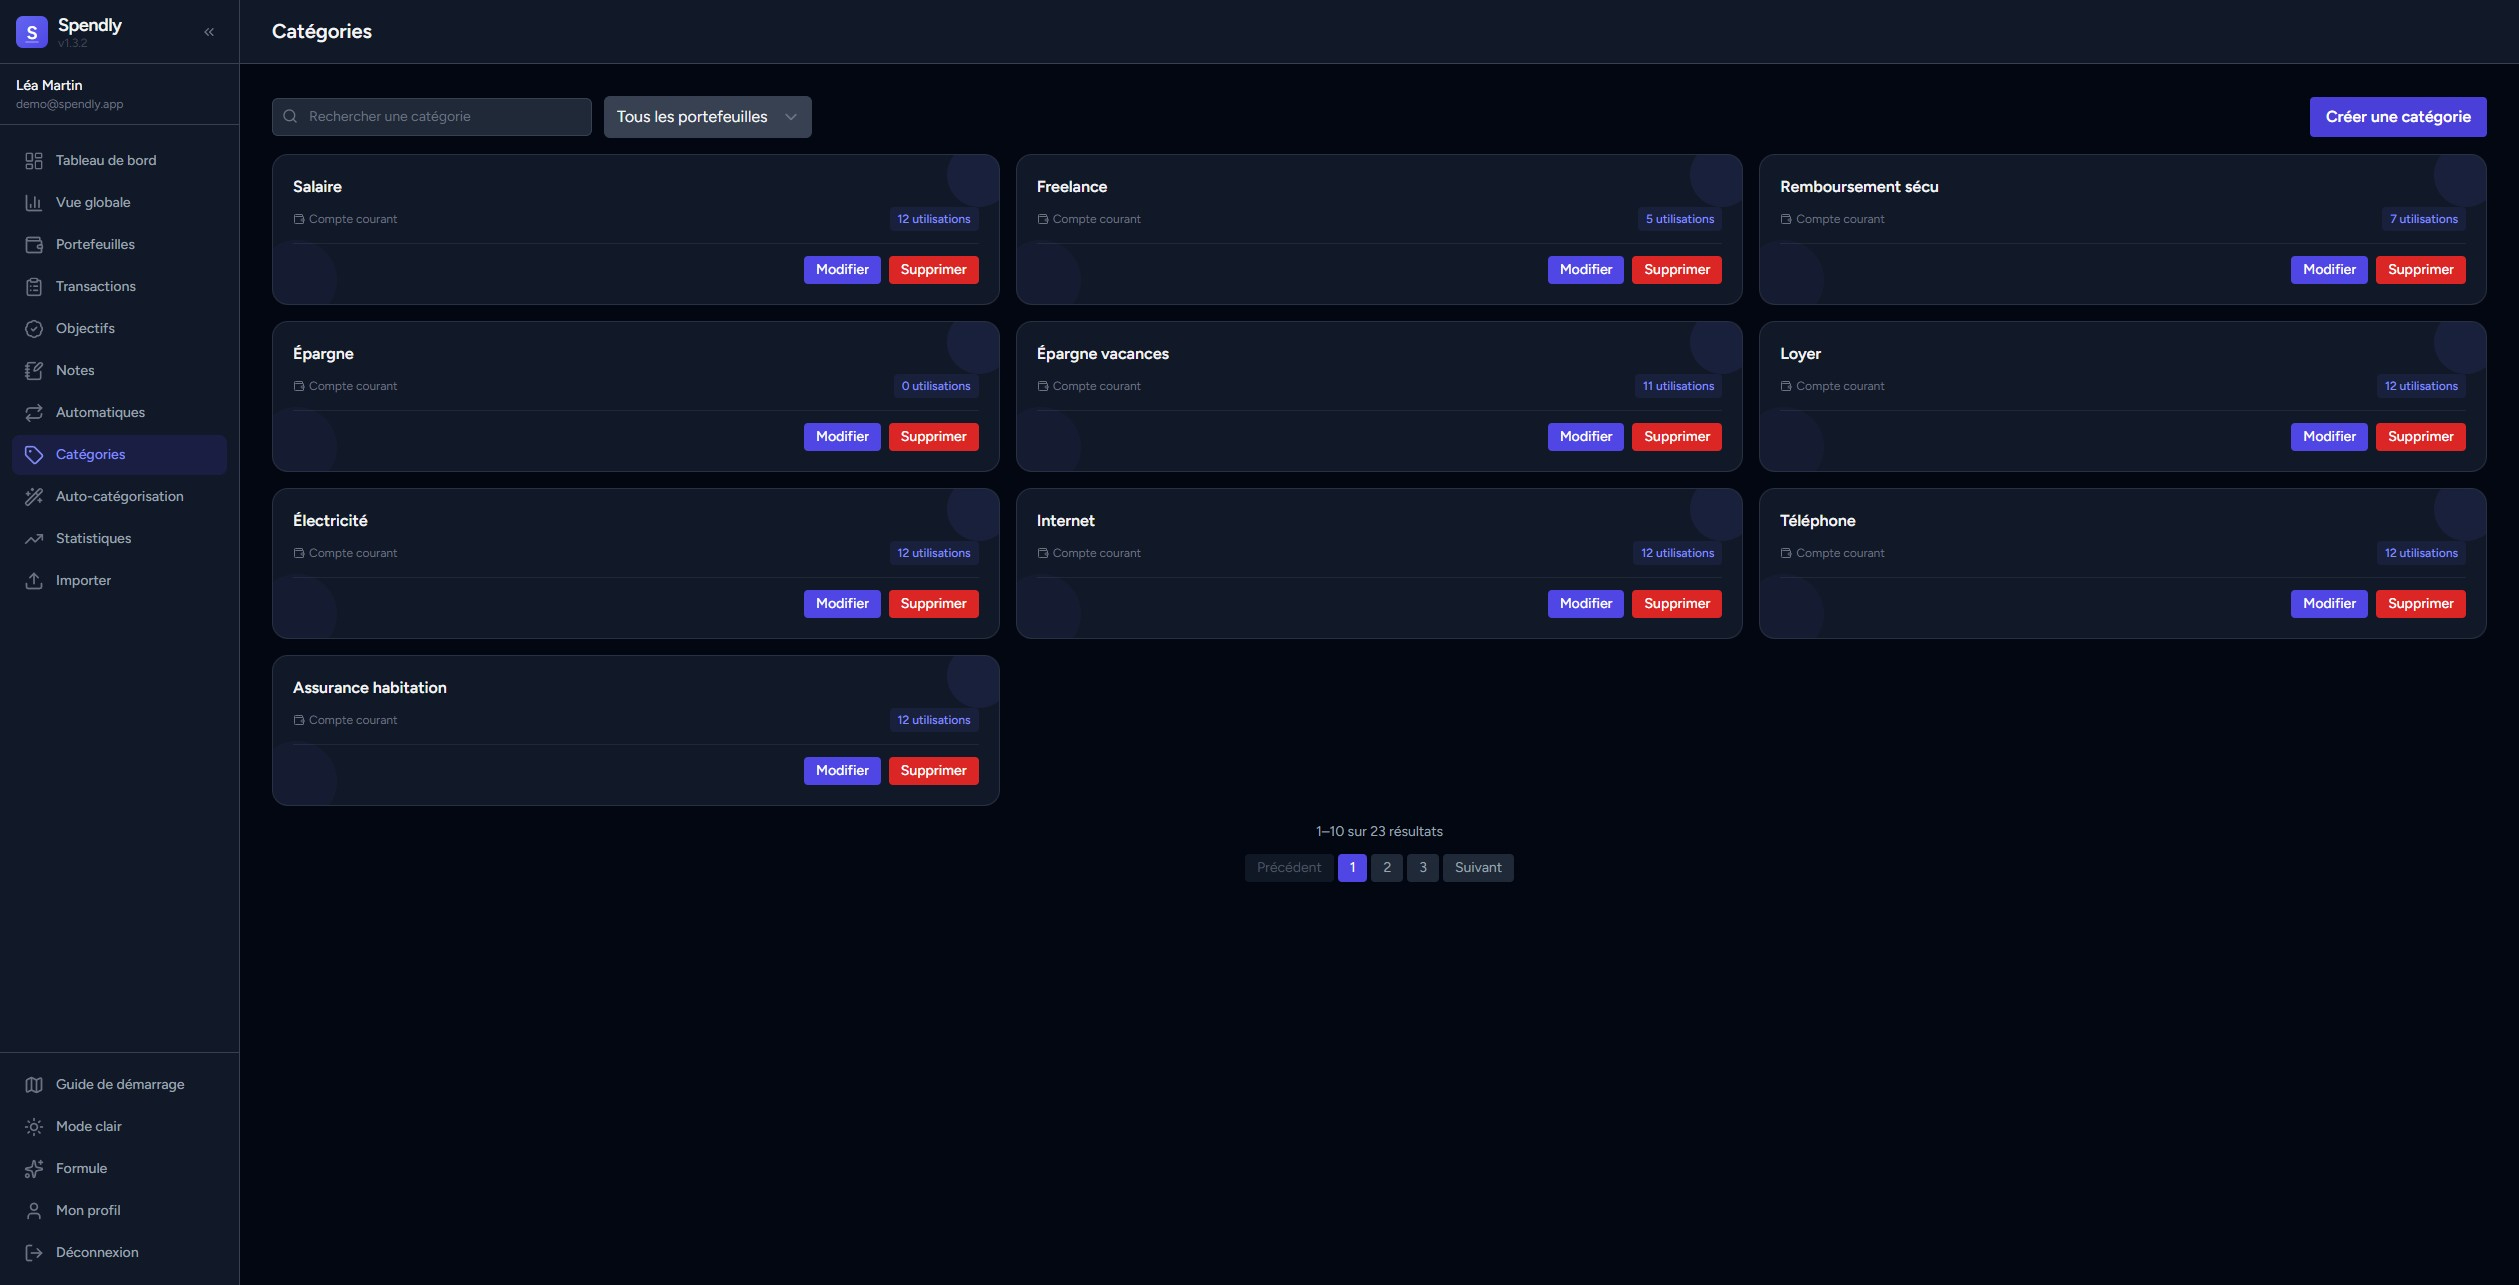
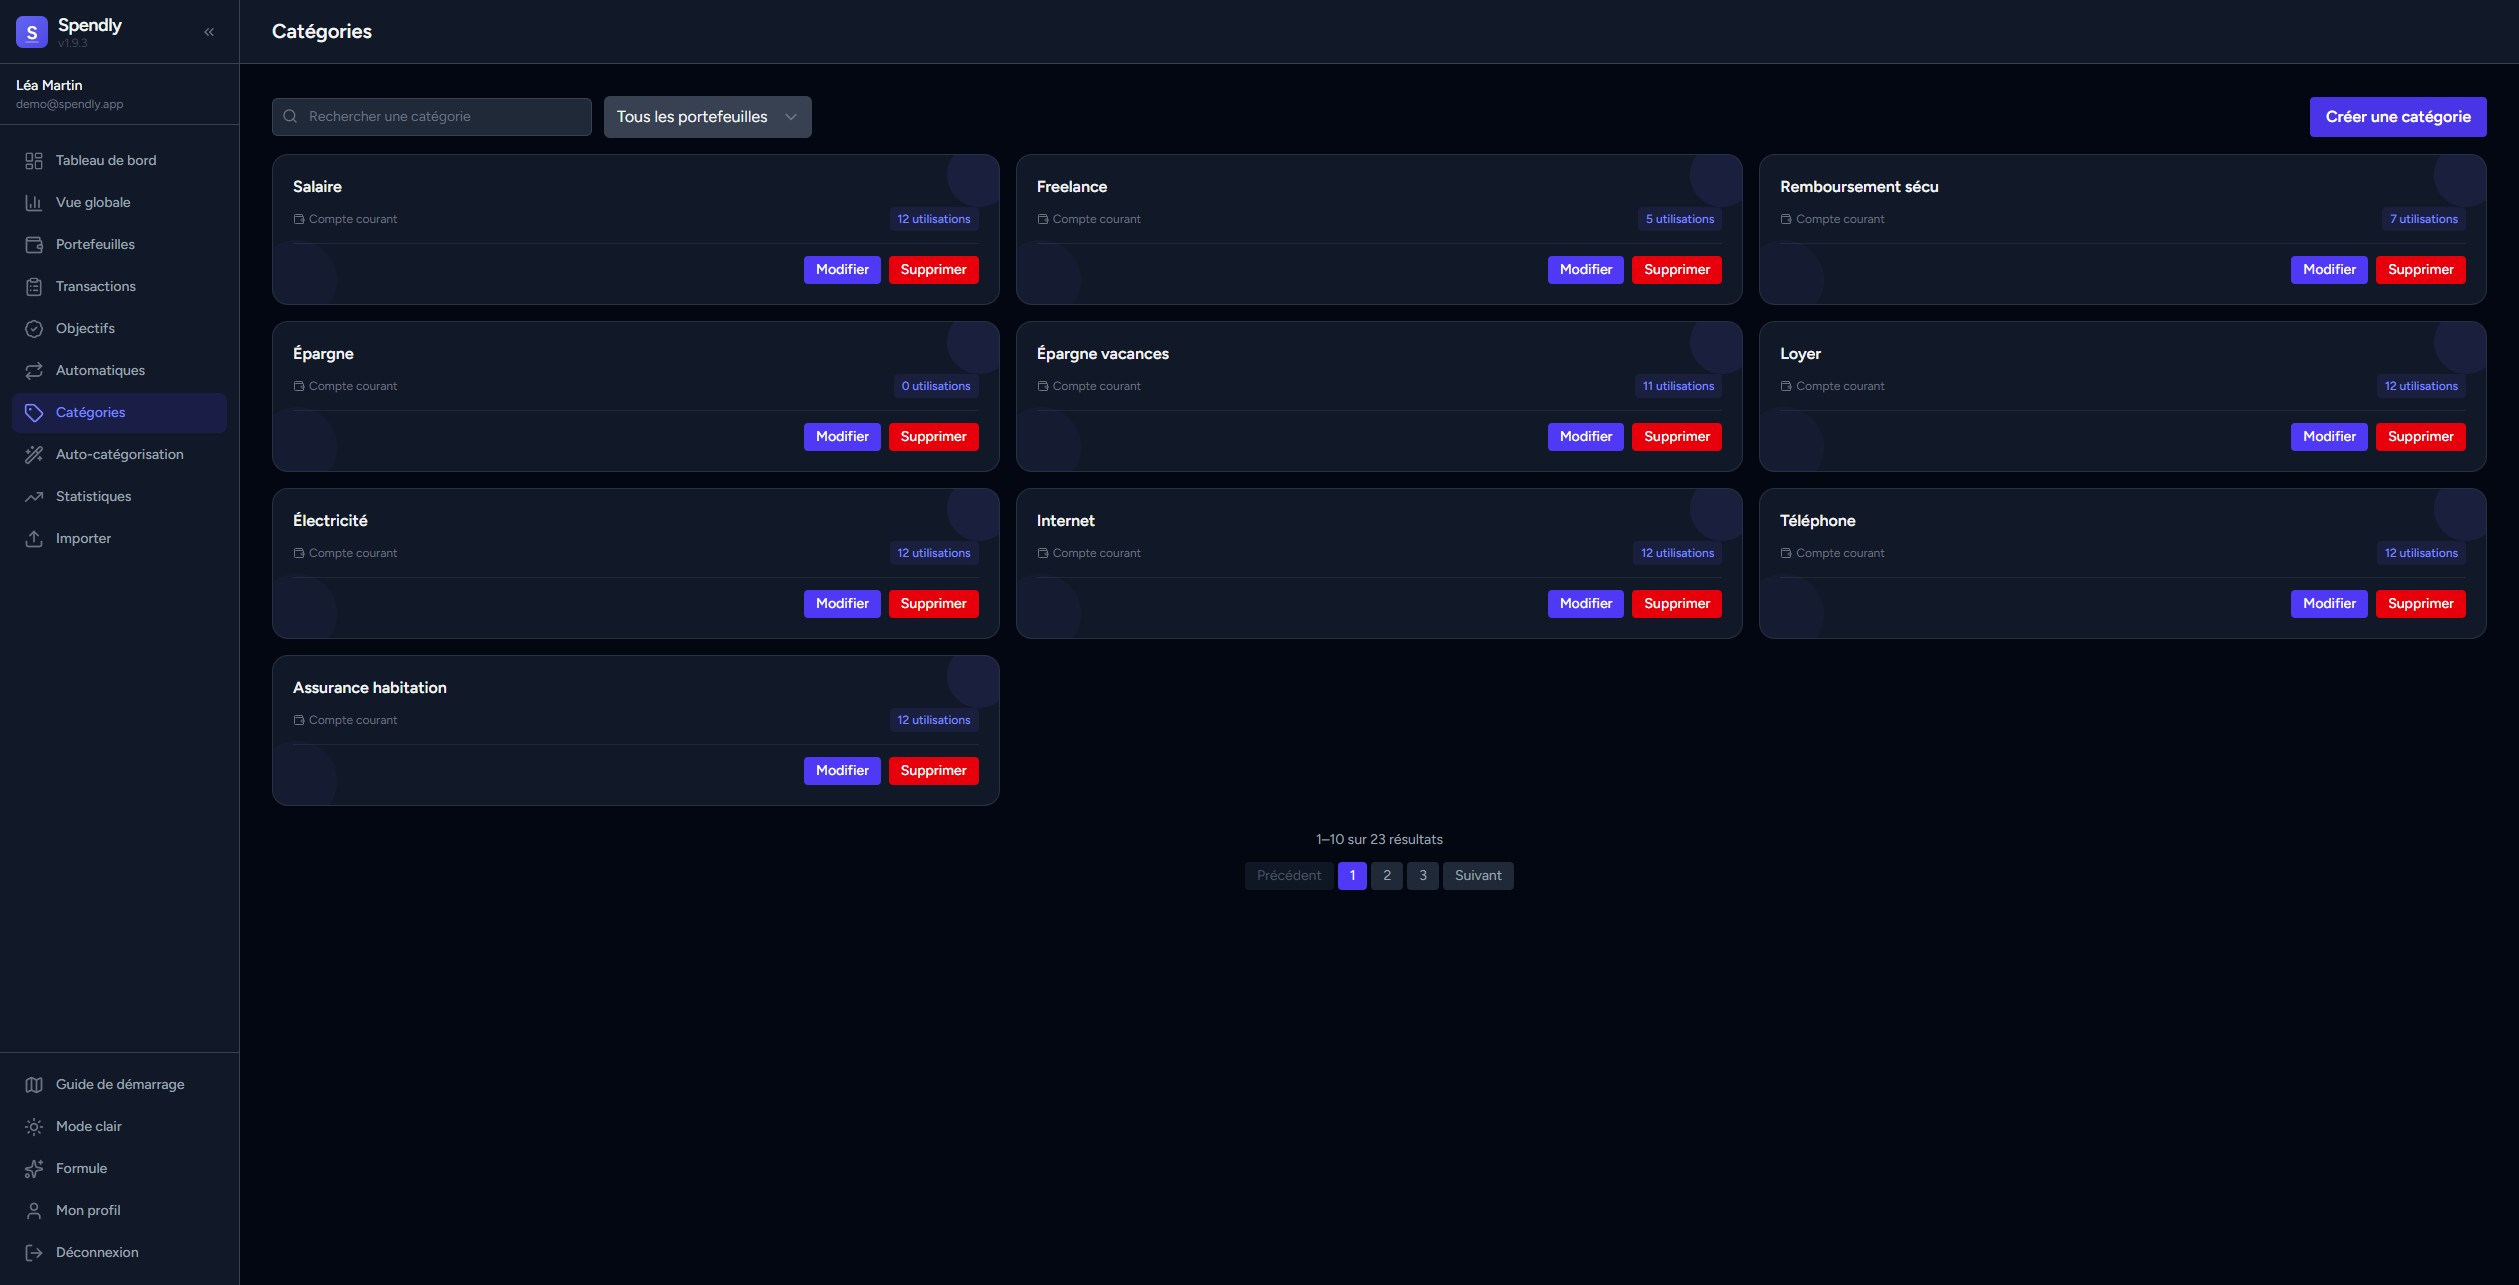
refactor: README

diff --git a/README.md b/README.md
@@ -29,14 +29,13 @@ Disponible en thème sombre et clair, entièrement responsive, Spendly centralis
 
 - **Tableau de bord** — Vue d'ensemble du mois en cours : dépenses, remboursements, évolution mensuelle, objectifs en cours et dernières transactions
 - **Vue globale** — Synthèse multi-portefeuilles avec graphiques de revenus/dépenses et répartition par catégorie
-- **Portefeuilles** — Gestion de plusieurs comptes indépendants (compte courant, livret, assurance vie…) avec virements entre comptes
+- **Portefeuilles** — Gestion de plusieurs comptes indépendants en mode **Budget** (catégories, lignes budgétaires, suivi détaillé) ou **Simplifié** (transactions simples sans catégories, idéal pour l'argent de poche), avec virements entre comptes
 - **Transactions** — Liste complète et filtrable de toutes vos transactions
 - **Transactions planifiées** — Suivi des dépenses annuelles, primes et échéances futures
 - **Transactions automatiques** — Gestion des abonnements et transactions récurrentes (streaming, sport, mutuelle…)
 - **Objectifs d'épargne** — Suivi visuel de la progression vers vos objectifs financiers
 - **Statistiques** — Analyse graphique sur la durée avec projections, taux d'épargne et tendances par catégorie
 - **Catégories** — Gestion personnalisée des catégories avec auto-catégorisation intelligente
-- **Notes** — Éditeur Markdown avec arborescence et aperçu en temps réel
 - **Import** — Import de transactions depuis un fichier Excel (modèle fourni)
 - **Export** — Export des données budgétaires en Excel
 - **Formules & Tarifs** — Offres Free et Pro avec gestion de l'abonnement
@@ -65,7 +64,7 @@ Disponible en thème sombre et clair, entièrement responsive, Spendly centralis
 
 ### Tableau de bord
 
-![Tableau de bord](docs/readme/screenshots/tableau-de-bord.jpg)
+![Tableau de bord](docs/readme/screenshots/tableau-de-bord.png)
 
 > Vue d'ensemble du mois : dépenses totales, remboursements, évolution du budget, objectifs en cours, dernières transactions et top catégories.
 
@@ -87,6 +86,34 @@ Disponible en thème sombre et clair, entièrement responsive, Spendly centralis
 
 ---
 
+### Créer un portefeuille
+
+![Créer un portefeuille](docs/readme/screenshots/portefeuille-creation.jpg)
+
+> Choix du type lors de la création : **Budget** pour un suivi détaillé avec catégories et lignes budgétaires, ou **Simplifié** pour des transactions sans catégories, idéal pour l'argent de poche.
+
+---
+
+### Portefeuille simplifié
+
+![Portefeuille simplifié](docs/readme/screenshots/portefeuille-simplifie.jpg)
+
+> Vue d'un portefeuille simplifié : solde actuel, total entrées/dépenses avec moyenne journalière, et liste chronologique des transactions filtrables (Tout / Entrées / Dépenses).
+
+---
+
+### Portefeuille budget
+
+![Portefeuille budget - Vue générale](docs/readme/screenshots/portefeuille-budget-1.png)
+
+![Portefeuille budget - Lignes budgétaires (1)](docs/readme/screenshots/portefeuille-budget-2.png)
+
+![Portefeuille budget - Lignes budgétaires (2)](docs/readme/screenshots/portefeuille-budget-3.png)
+
+> Vue d'un portefeuille budget : synthèse mensuelle (prévu / dépensé / total), répartition par catégorie, progression du budget, objectifs d'épargne associés et détail complet des lignes budgétaires (charges fixes, épargne, dépenses, non budgétés).
+
+---
+
 ### Virement entre portefeuilles
 
 ![Virement](docs/readme/screenshots/virement.jpg)
@@ -97,7 +124,7 @@ Disponible en thème sombre et clair, entièrement responsive, Spendly centralis
 
 ### Transactions d'une ligne budgétaire
 
-![Budget portefeuille](docs/readme/screenshots/budget-portefeuille.jpg)
+![Budget portefeuille](docs/readme/screenshots/budget-portefeuille.png)
 
 > Détail des transactions d'une ligne budgétaire : liste des dépenses associées à une catégorie en cliquant sur une ligne du budget.
 
@@ -105,7 +132,7 @@ Disponible en thème sombre et clair, entièrement responsive, Spendly centralis
 
 ### Nouvelle transaction
 
-![Nouvelle transaction](docs/readme/screenshots/nouvelle-transaction.jpg)
+![Nouvelle transaction](docs/readme/screenshots/nouvelle-transaction.png)
 
 > Formulaire de saisie rapide : type (dépense/revenu/virement), montant, catégorie, date, description, tags et pièces jointes.
 
@@ -113,7 +140,7 @@ Disponible en thème sombre et clair, entièrement responsive, Spendly centralis
 
 ### Transactions
 
-![Transactions](docs/readme/screenshots/transactions.jpg)
+![Transactions](docs/readme/screenshots/transactions.png)
 
 > Liste complète et filtrable de toutes les transactions (catégorie, portefeuille, mois, type).
 
@@ -127,11 +154,27 @@ Disponible en thème sombre et clair, entièrement responsive, Spendly centralis
 
 ---
 
+### Nouvelle transaction planifiée
+
+![Nouvelle transaction planifiée](docs/readme/screenshots/nouvelle-transactions-planifiees.jpg)
+
+> Formulaire de création d'une transaction planifiée : montant, catégorie, date d'échéance et description.
+
+---
+
 ### Transactions automatiques
 
 ![Transactions automatiques](docs/readme/screenshots/transactions-auto.jpg)
 
 > Gestion des abonnements et paiements récurrents : streaming, sport, mutuelle, salaire…
+
+---
+
+### Nouvelle transaction automatique
+
+![Nouvelle transaction automatique](docs/readme/screenshots/nouvelle-transactions-auto.jpg)
+
+> Formulaire de création d'une transaction automatique : montant, fréquence, catégorie et date de début.
 
 ---
 
@@ -143,9 +186,17 @@ Disponible en thème sombre et clair, entièrement responsive, Spendly centralis
 
 ---
 
+### Nouvel objectif
+
+![Nouvel objectif](docs/readme/screenshots/nouvel-objectif.jpg)
+
+> Formulaire de création d'un objectif d'épargne : nom, montant cible, montant actuel et date limite.
+
+---
+
 ### Statistiques
 
-![Statistiques](docs/readme/screenshots/statistiques.jpg)
+![Statistiques](docs/readme/screenshots/statistiques.png)
 
 > Tableaux de bord analytiques : dépenses par catégorie, taux d'épargne, évolution sur 6 mois, projections et tendances par catégorie.
 
@@ -167,22 +218,6 @@ Disponible en thème sombre et clair, entièrement responsive, Spendly centralis
 
 ---
 
-### Notes — Éditeur Markdown
-
-![Notes - Éditeur](docs/readme/screenshots/notes-edition.jpg)
-
-> Éditeur Markdown avec arborescence hiérarchique, tags et sauvegarde automatique.
-
----
-
-### Notes — Aperçu rendu
-
-![Notes - Aperçu](docs/readme/screenshots/notes-apercu.jpg)
-
-> Mode aperçu : rendu HTML du Markdown avec tableaux, listes et mise en forme.
-
----
-
 ### Importer des transactions
 
 ![Import](docs/readme/screenshots/import.jpg)
@@ -201,7 +236,9 @@ Disponible en thème sombre et clair, entièrement responsive, Spendly centralis
 
 ### Profil
 
-![Profil](docs/readme/screenshots/profil.png)
+![Profil 1](docs/readme/screenshots/profil-1.png)
+
+![Profil 2](docs/readme/screenshots/profil-2.png)
 
 > Gestion du profil : langue, informations personnelles, devise, lignes budgétaires par défaut et mot de passe.
 
@@ -209,7 +246,7 @@ Disponible en thème sombre et clair, entièrement responsive, Spendly centralis
 
 ### Administration
 
-![Administration](docs/readme/screenshots/admin.jpg)
+![Administration](docs/readme/screenshots/admin.png)
 
 > Dashboard admin : inscriptions, transactions, croissance cumulée, langues utilisées, répartition des formules et statistiques en temps réel.
 
@@ -290,19 +327,11 @@ php artisan migrate
 
 ### Démarrage en développement
 
-**Démarrer le mailer (Mailpit via Docker) :**
-
 ```bash
-docker compose up -d
+make start
 ```
 
-**Lancer les serveurs de développement :**
-
-```bash
-make dev
-```
-
-Lance en parallèle : le serveur PHP, la queue, les logs Pail et Vite.
+Lance en parallèle : le mailer (Mailpit via Docker), le serveur PHP, la queue, les logs Pail et Vite.
 
 ---
 
